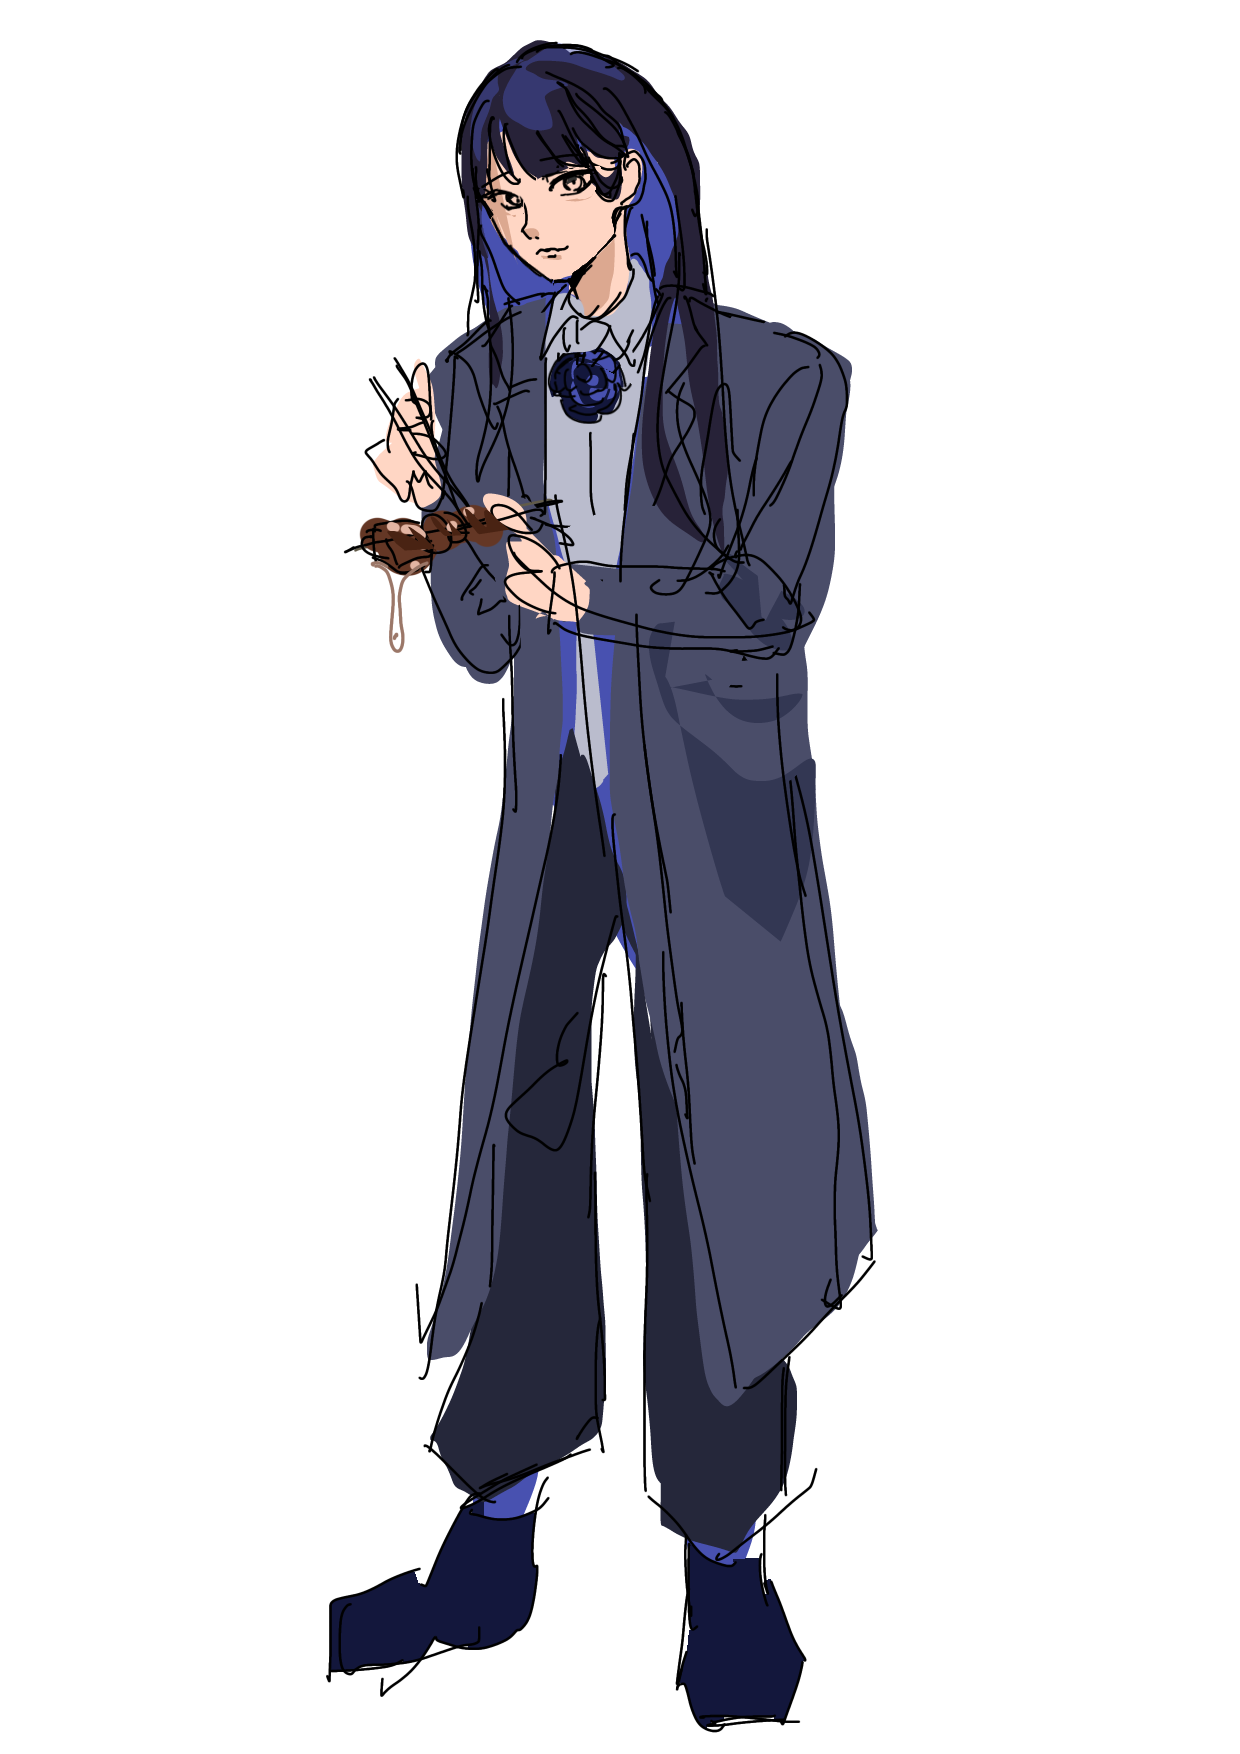
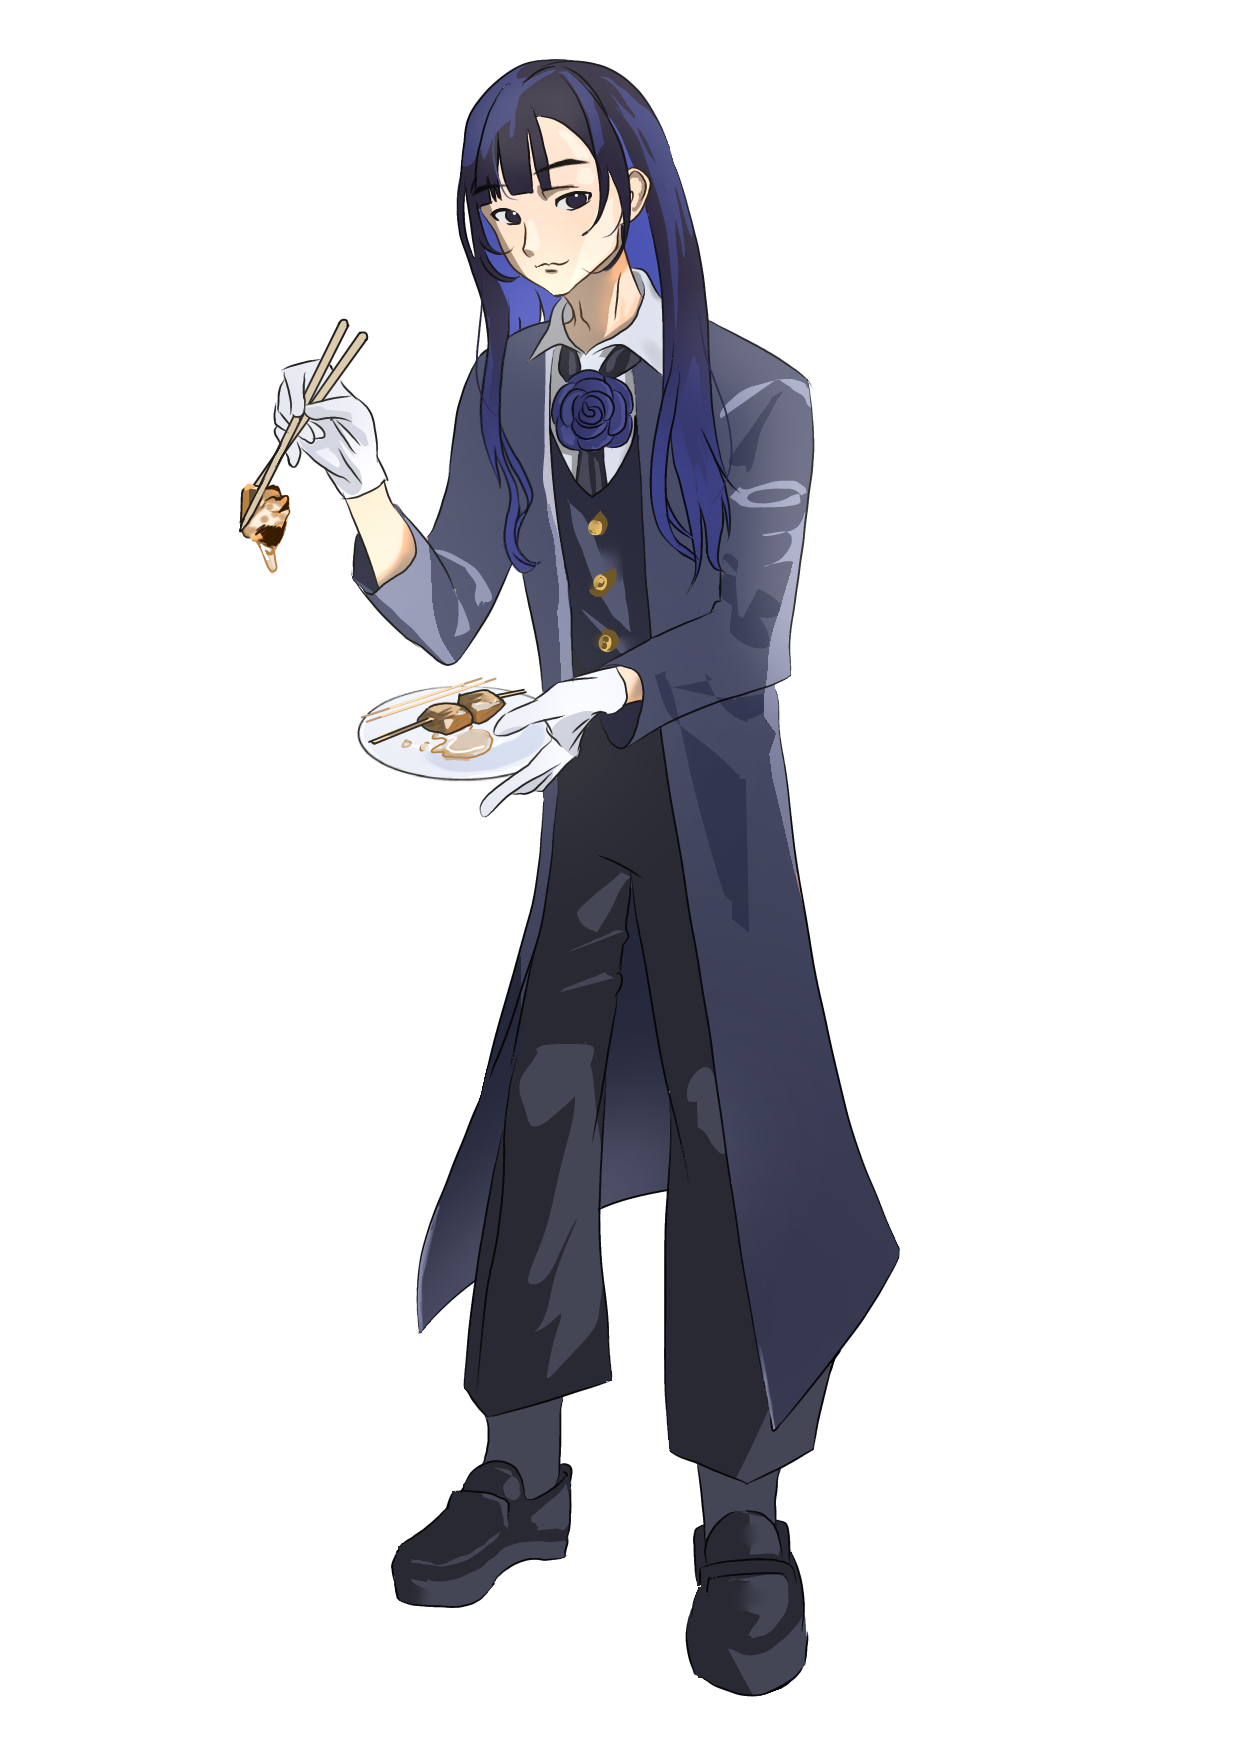
Replace artist normal portrait with finished transparent artwork

Changed region(s): [[0.1839, 0.0, 0.7355, 0.9852]]

diff --git a/game-data.js b/game-data.js
@@ -188,7 +188,7 @@ window.GAME_DATA = {
       fullName: "某有名アーティストA",
       tag: "承認欲求と普通のあいだで揺れる人",
       portrait: "ado",
-      standingImage: "ado-standing.png?v=20261010",
+      standingImage: "ado-standing.png?v=20261019-finished-art",
       upStandingImage: "ado-standing-up.png?v=20261019-finished-art",
       downStandingImage: "ado-standing-down.png?v=20261019-finished-art",
       color: "#5a63d8",

diff --git a/index.html b/index.html
@@ -71,7 +71,7 @@
 
     </main>
 
-    <script src="game-data.js?v=20261019-finished-portraits-v2"></script>
+    <script src="game-data.js?v=20261019-finished-portraits-v3"></script>
     <script src="app.js?v=20261019-reaction-portraits"></script>
   </body>
 </html>

diff --git a/otome-original.html b/otome-original.html
@@ -71,7 +71,7 @@
 
     </main>
 
-    <script src="game-data.js?v=20261019-finished-portraits-v2"></script>
+    <script src="game-data.js?v=20261019-finished-portraits-v3"></script>
     <script src="app.js?v=20261019-reaction-portraits"></script>
   </body>
 </html>

diff --git a/otome.html b/otome.html
@@ -76,7 +76,7 @@
 
     </main>
 
-    <script src="game-data.js?v=20261019-finished-portraits-v2"></script>
+    <script src="game-data.js?v=20261019-finished-portraits-v3"></script>
     <script src="app.js?v=20261019-reaction-portraits"></script>
   </body>
 </html>
